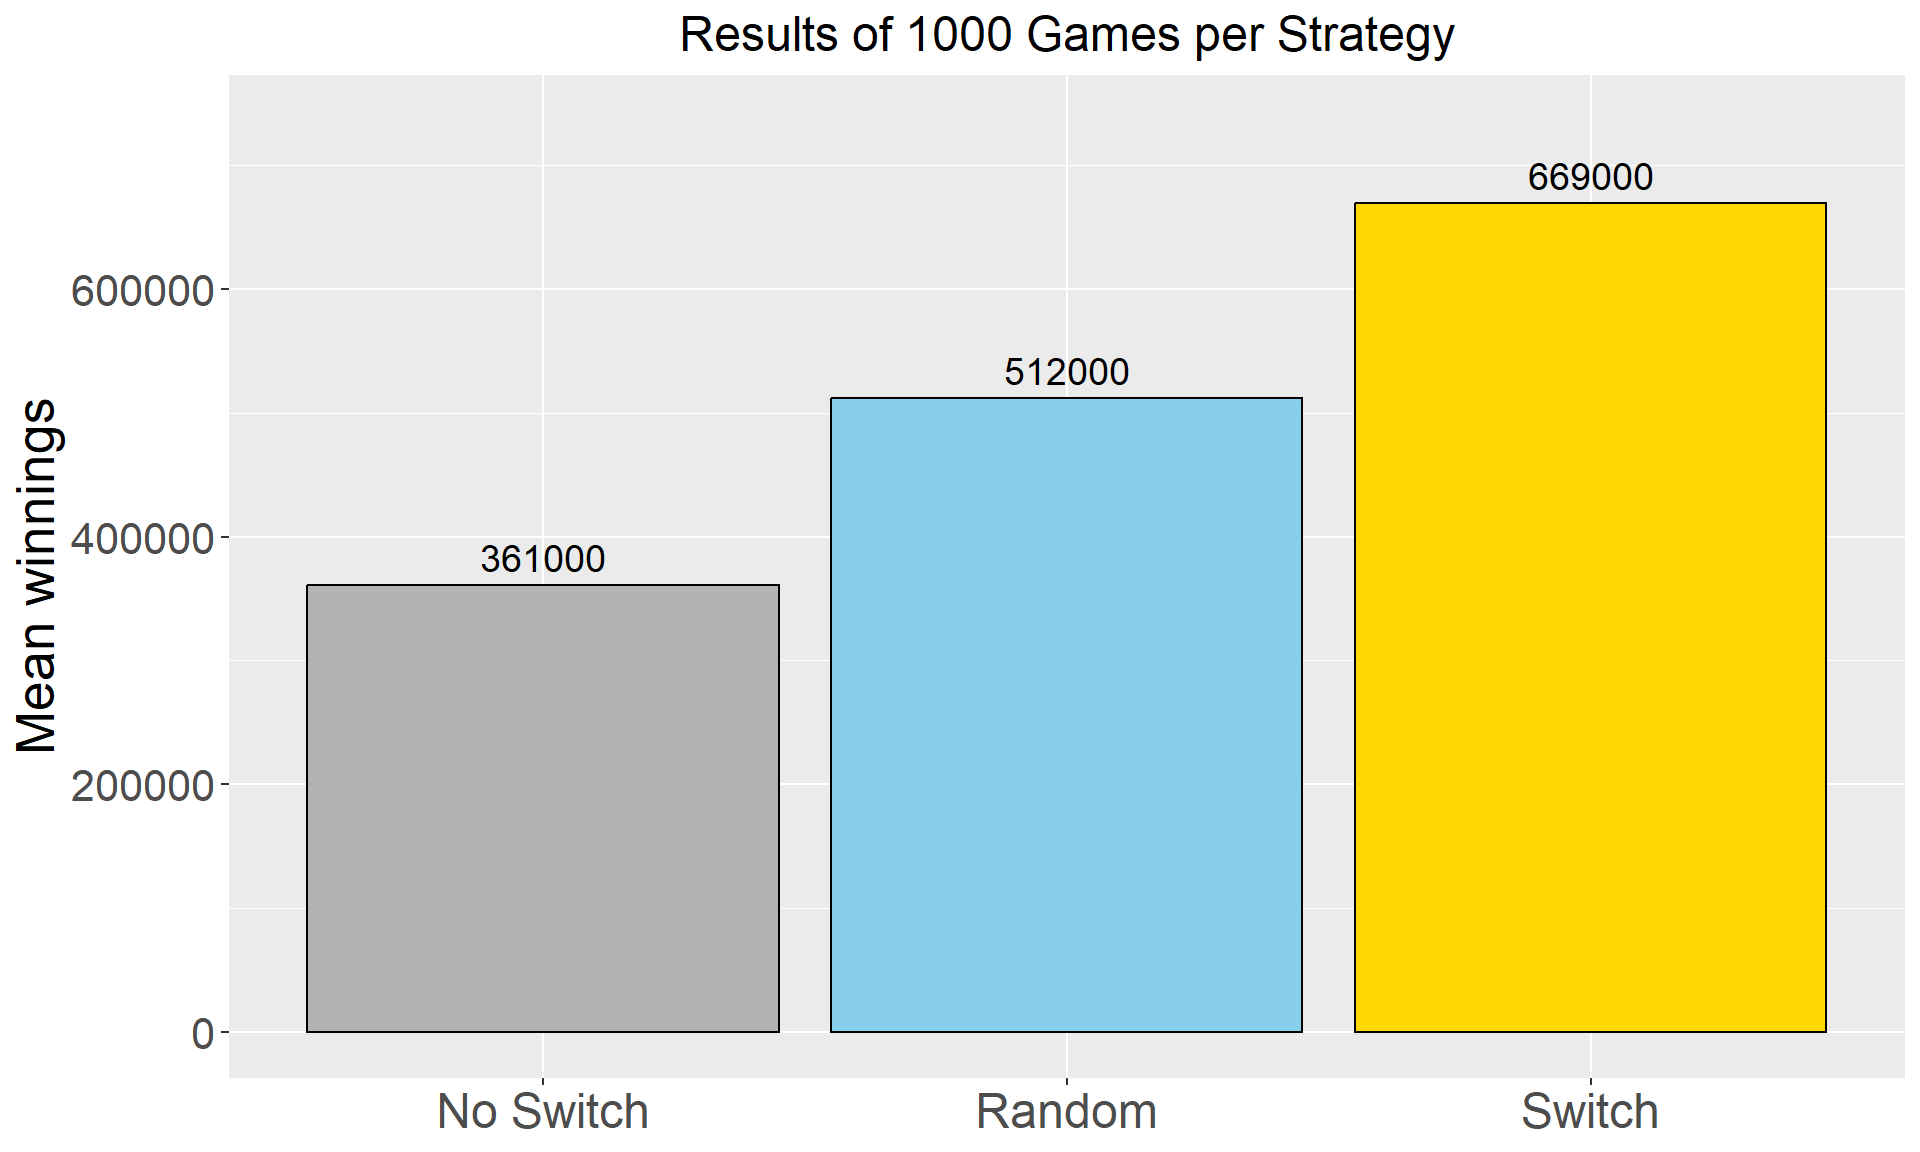
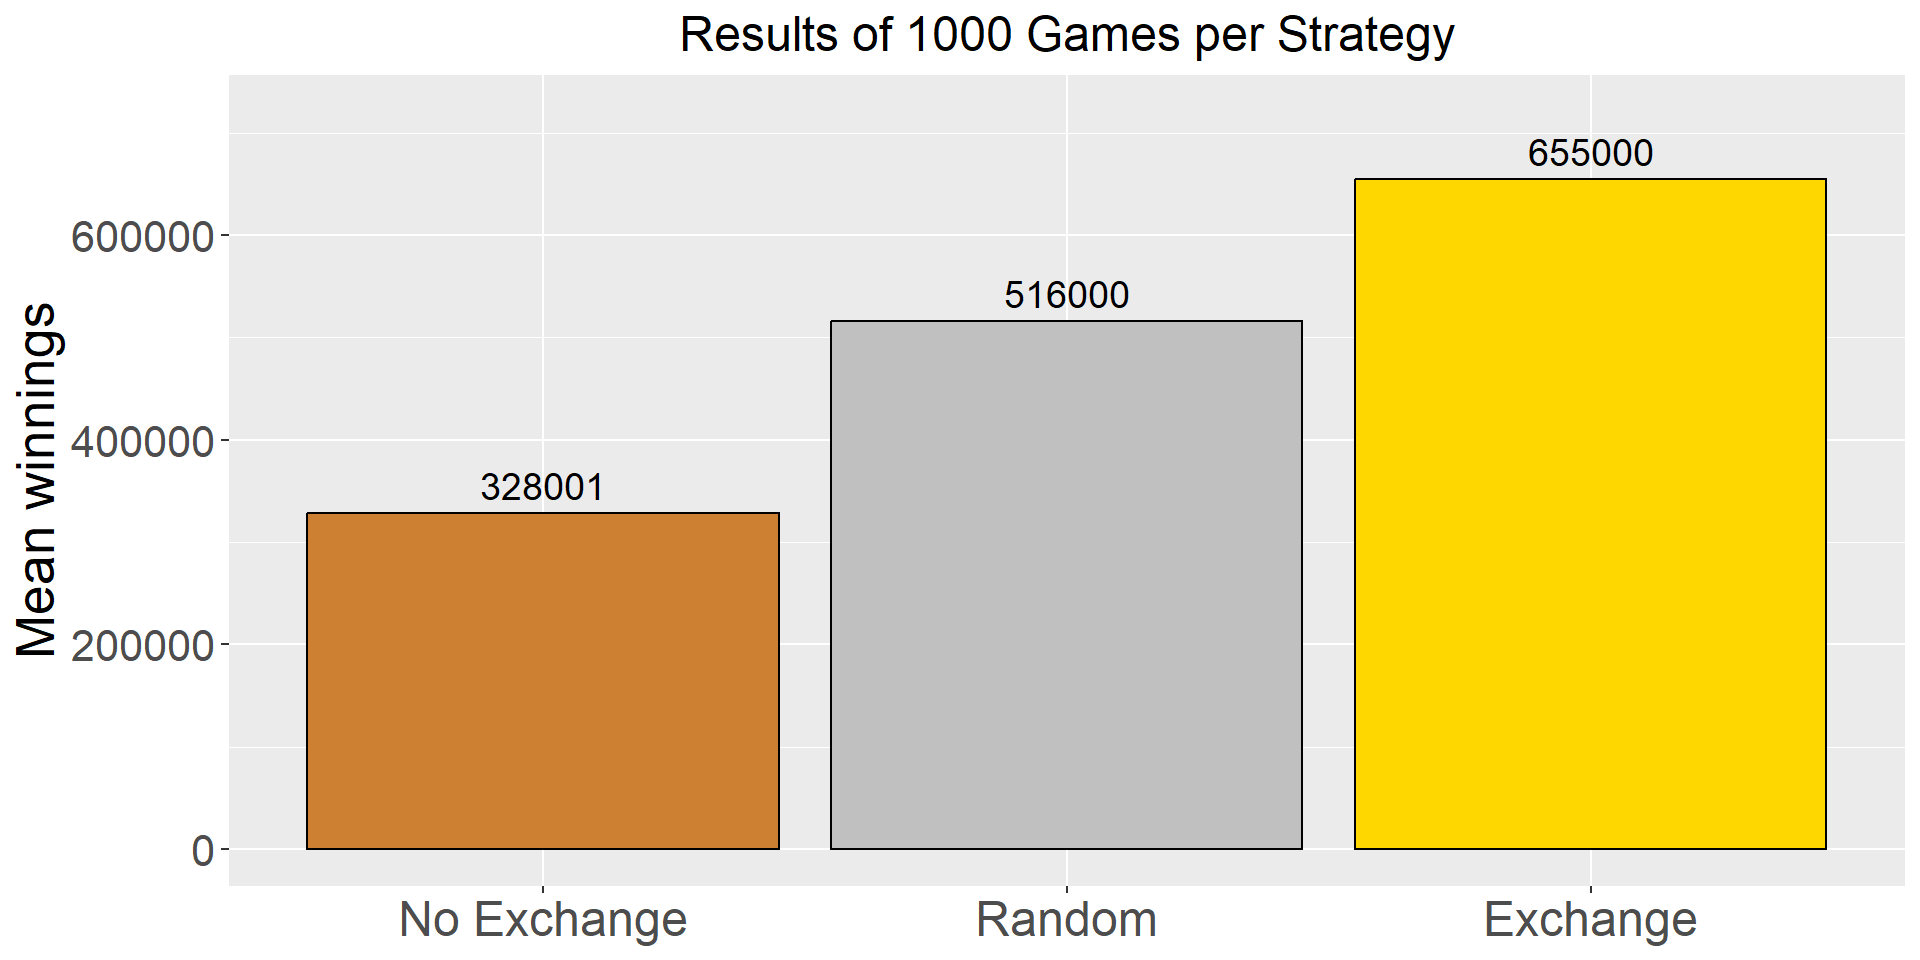
updated code

diff --git a/SIR_Presentation.html b/SIR_Presentation.html
@@ -11,7 +11,7 @@
 
   <meta name="author" content="Arsid MASHI">
   <meta name="author" content="Sunil NAHATA">
-  <meta name="dcterms.date" content="2025-11-29">
+  <meta name="dcterms.date" content="2025-12-03">
   <title>Simulating the Monty Hall Problem</title>
   <meta name="apple-mobile-web-app-capable" content="yes">
   <meta name="apple-mobile-web-app-status-bar-style" content="black-translucent">
@@ -211,7 +211,7 @@ Sunil NAHATA
 </div>
 </div>
 
-  <p class="date">2025-11-29</p>
+  <p class="date">2025-12-03</p>
 </section>
 <section id="overview" class="title-slide slide level1">
 <h1>Overview</h1>
@@ -276,70 +276,107 @@ Sunil NAHATA
 <section id="no-switch" class="title-slide slide level1">
 <h1>No Switch</h1>
 <div class="cell">
-<div class="code-copy-outer-scaffold"><div class="sourceCode cell-code" id="cb1"><pre class="sourceCode numberSource r number-lines code-with-copy"><code class="sourceCode r"><span id="cb1-1"><a href=""></a><span class="co"># One game: No Switch</span></span>
-<span id="cb1-2"><a href=""></a>game_no_switch <span class="ot">&lt;-</span> <span class="cf">function</span>() {</span>
-<span id="cb1-3"><a href=""></a>  boxes <span class="ot">&lt;-</span> <span class="fu">c</span>(<span class="fl">1e6</span>, <span class="fl">0.10</span>, <span class="fl">0.10</span>)</span>
-<span id="cb1-4"><a href=""></a>  pick <span class="ot">&lt;-</span> <span class="fu">sample</span>(<span class="dv">1</span><span class="sc">:</span><span class="dv">3</span>, <span class="dv">1</span>)</span>
-<span id="cb1-5"><a href=""></a>  <span class="fu">return</span>(boxes[pick])</span>
-<span id="cb1-6"><a href=""></a>}</span></code></pre></div><button title="Copy to Clipboard" class="code-copy-button"><i class="bi"></i></button></div>
+<div class="code-copy-outer-scaffold"><div class="sourceCode cell-code" id="cb1"><pre class="sourceCode numberSource r number-lines code-with-copy"><code class="sourceCode r"><span id="cb1-1"><a href=""></a><span class="co"># Player chooses a box and sticks with his choice</span></span>
+<span id="cb1-2"><a href=""></a></span>
+<span id="cb1-3"><a href=""></a>game_no_box_change <span class="ot">=</span> <span class="cf">function</span>(){  </span>
+<span id="cb1-4"><a href=""></a>  box <span class="ot">=</span> <span class="fu">c</span>(<span class="dv">1</span>, <span class="dv">1</span>, <span class="dv">1000000</span>)  </span>
+<span id="cb1-5"><a href=""></a>  random_choice <span class="ot">=</span> <span class="fu">sample</span>(<span class="dv">1</span><span class="sc">:</span><span class="dv">3</span>, <span class="at">size=</span> <span class="dv">1</span>) </span>
+<span id="cb1-6"><a href=""></a>  chosen_box <span class="ot">=</span> box[random_choice] </span>
+<span id="cb1-7"><a href=""></a>  remaining_boxes <span class="ot">=</span> box[<span class="sc">-</span>random_choice] </span>
+<span id="cb1-8"><a href=""></a>  <span class="fu">return</span>(chosen_box)  </span>
+<span id="cb1-9"><a href=""></a>}</span></code></pre></div><button title="Copy to Clipboard" class="code-copy-button"><i class="bi"></i></button></div>
 </div>
 </section>
 
 <section id="always-switch" class="title-slide slide level1">
 <h1>Always switch</h1>
 <div class="cell">
-<div class="code-copy-outer-scaffold"><div class="sourceCode cell-code" id="cb2"><pre class="sourceCode numberSource r number-lines code-with-copy"><code class="sourceCode r"><span id="cb2-1"><a href=""></a><span class="co"># One game: Always switch</span></span>
-<span id="cb2-2"><a href=""></a>game_switch <span class="ot">&lt;-</span> <span class="cf">function</span>() {</span>
-<span id="cb2-3"><a href=""></a>  boxes <span class="ot">&lt;-</span> <span class="fu">c</span>(<span class="fl">1e6</span>, <span class="fl">0.10</span>, <span class="fl">0.10</span>)</span>
-<span id="cb2-4"><a href=""></a>  pick <span class="ot">&lt;-</span> <span class="fu">sample</span>(<span class="dv">1</span><span class="sc">:</span><span class="dv">3</span>, <span class="dv">1</span>)</span>
-<span id="cb2-5"><a href=""></a>  remaining <span class="ot">&lt;-</span> <span class="fu">setdiff</span>(<span class="dv">1</span><span class="sc">:</span><span class="dv">3</span>, pick)</span>
-<span id="cb2-6"><a href=""></a>  presenter <span class="ot">&lt;-</span> remaining[boxes[remaining] <span class="sc">==</span> <span class="fl">0.10</span>][<span class="dv">1</span>]</span>
-<span id="cb2-7"><a href=""></a>  final_choice <span class="ot">&lt;-</span> <span class="fu">setdiff</span>(remaining, presenter)</span>
-<span id="cb2-8"><a href=""></a>  <span class="fu">return</span>(boxes[final_choice])</span>
-<span id="cb2-9"><a href=""></a>}</span></code></pre></div><button title="Copy to Clipboard" class="code-copy-button"><i class="bi"></i></button></div>
+<div class="code-copy-outer-scaffold"><div class="sourceCode cell-code" id="cb2"><pre class="sourceCode numberSource r number-lines code-with-copy"><code class="sourceCode r"><span id="cb2-1"><a href=""></a><span class="co"># Of the two remaining boxes, the presenter opens a box containing a dime </span></span>
+<span id="cb2-2"><a href=""></a></span>
+<span id="cb2-3"><a href=""></a>game_box_exchange <span class="ot">=</span> <span class="cf">function</span>(){</span>
+<span id="cb2-4"><a href=""></a>  box <span class="ot">=</span> <span class="fu">c</span>(<span class="dv">1</span>, <span class="dv">1</span>, <span class="dv">1000000</span>)</span>
+<span id="cb2-5"><a href=""></a>  random_choice <span class="ot">=</span> <span class="fu">sample</span>(<span class="dv">1</span><span class="sc">:</span><span class="dv">3</span>, <span class="at">size=</span> <span class="dv">1</span>)</span>
+<span id="cb2-6"><a href=""></a>  remaining_boxes <span class="ot">=</span> box[<span class="sc">-</span>random_choice]</span>
+<span id="cb2-7"><a href=""></a>  <span class="cf">if</span> (<span class="fu">length</span>(<span class="fu">which</span>(remaining_boxes <span class="sc">==</span> <span class="dv">1</span>)) <span class="sc">==</span> <span class="dv">1</span>){</span>
+<span id="cb2-8"><a href=""></a>    chosen_box <span class="ot">=</span> remaining_boxes[<span class="sc">-</span><span class="fu">which</span>(remaining_boxes <span class="sc">==</span> <span class="dv">1</span>)]</span>
+<span id="cb2-9"><a href=""></a>  }</span>
+<span id="cb2-10"><a href=""></a>  <span class="cf">else</span> {</span>
+<span id="cb2-11"><a href=""></a>    chosen_box <span class="ot">=</span> remaining_boxes[<span class="sc">-</span><span class="fu">which</span>(remaining_boxes <span class="sc">==</span> <span class="dv">1</span>)[<span class="fu">sample</span>(<span class="dv">1</span><span class="sc">:</span><span class="dv">2</span>,<span class="dv">1</span>)]]</span>
+<span id="cb2-12"><a href=""></a>  }</span>
+<span id="cb2-13"><a href=""></a>  <span class="fu">return</span>(chosen_box)</span>
+<span id="cb2-14"><a href=""></a>}</span></code></pre></div><button title="Copy to Clipboard" class="code-copy-button"><i class="bi"></i></button></div>
 </div>
 </section>
 
 <section id="random-choice" class="title-slide slide level1">
 <h1>Random choice</h1>
 <div class="cell">
-<div class="code-copy-outer-scaffold"><div class="sourceCode cell-code" id="cb3"><pre class="sourceCode numberSource r number-lines code-with-copy"><code class="sourceCode r"><span id="cb3-1"><a href=""></a><span class="co"># Random choice</span></span>
-<span id="cb3-2"><a href=""></a>game_random <span class="ot">&lt;-</span> <span class="cf">function</span>() {</span>
-<span id="cb3-3"><a href=""></a>  boxes <span class="ot">&lt;-</span> <span class="fu">c</span>(<span class="fl">1e6</span>, <span class="fl">0.10</span>, <span class="fl">0.10</span>)</span>
-<span id="cb3-4"><a href=""></a>  pick <span class="ot">&lt;-</span> <span class="fu">sample</span>(<span class="dv">1</span><span class="sc">:</span><span class="dv">3</span>, <span class="dv">1</span>)</span>
-<span id="cb3-5"><a href=""></a>  remaining <span class="ot">&lt;-</span> <span class="fu">setdiff</span>(<span class="dv">1</span><span class="sc">:</span><span class="dv">3</span>, pick)</span>
-<span id="cb3-6"><a href=""></a>  presenter <span class="ot">&lt;-</span> remaining[boxes[remaining] <span class="sc">==</span> <span class="fl">0.10</span>][<span class="dv">1</span>]</span>
-<span id="cb3-7"><a href=""></a>  final_choice <span class="ot">&lt;-</span> <span class="fu">sample</span>(<span class="fu">c</span>(pick, <span class="fu">setdiff</span>(remaining, presenter)), <span class="dv">1</span>)</span>
-<span id="cb3-8"><a href=""></a>  <span class="fu">return</span>(boxes[final_choice])</span>
-<span id="cb3-9"><a href=""></a>}</span></code></pre></div><button title="Copy to Clipboard" class="code-copy-button"><i class="bi"></i></button></div>
+<div class="code-copy-outer-scaffold"><div class="sourceCode cell-code" id="cb3"><pre class="sourceCode numberSource r number-lines code-with-copy"><code class="sourceCode r"><span id="cb3-1"><a href=""></a><span class="co"># Player chooses to keep the box chosen at the beginning or switch to the remaining box, a random choice</span></span>
+<span id="cb3-2"><a href=""></a></span>
+<span id="cb3-3"><a href=""></a>game_random_remain_pick <span class="ot">=</span> <span class="cf">function</span>(){   </span>
+<span id="cb3-4"><a href=""></a>  random_choice <span class="ot">=</span> <span class="fu">sample</span>(<span class="dv">1</span><span class="sc">:</span><span class="dv">2</span>, <span class="at">size=</span> <span class="dv">1</span>)    </span>
+<span id="cb3-5"><a href=""></a>  <span class="cf">if</span> (random_choice <span class="sc">==</span> <span class="dv">1</span>) {<span class="fu">game_box_exchange</span>()}</span>
+<span id="cb3-6"><a href=""></a>  <span class="cf">else</span> {<span class="fu">game_no_box_change</span>()}</span>
+<span id="cb3-7"><a href=""></a>}</span></code></pre></div><button title="Copy to Clipboard" class="code-copy-button"><i class="bi"></i></button></div>
 </div>
 </section>
 
-<section id="simulations-per-case" class="title-slide slide level1">
-<h1>1000 simulations per case</h1>
+<section id="simulations-per-strategy" class="title-slide slide level1">
+<h1>1000 simulations per strategy</h1>
 <div class="cell">
 <div class="code-copy-outer-scaffold"><div class="sourceCode cell-code" id="cb4"><pre class="sourceCode numberSource r number-lines code-with-copy"><code class="sourceCode r"><span id="cb4-1"><a href=""></a><span class="co"># Repeat 1000 games</span></span>
-<span id="cb4-2"><a href=""></a>N <span class="ot">&lt;-</span> <span class="dv">1000</span></span>
-<span id="cb4-3"><a href=""></a></span>
-<span id="cb4-4"><a href=""></a>mean_no_switch <span class="ot">&lt;-</span> <span class="fu">mean</span>(<span class="fu">replicate</span>(N, <span class="fu">game_no_switch</span>()))</span>
-<span id="cb4-5"><a href=""></a>mean_random    <span class="ot">&lt;-</span> <span class="fu">mean</span>(<span class="fu">replicate</span>(N, <span class="fu">game_random</span>()))</span>
-<span id="cb4-6"><a href=""></a>mean_switch    <span class="ot">&lt;-</span> <span class="fu">mean</span>(<span class="fu">replicate</span>(N, <span class="fu">game_switch</span>()))</span>
-<span id="cb4-7"><a href=""></a></span>
-<span id="cb4-8"><a href=""></a>means <span class="ot">&lt;-</span> <span class="fu">c</span>(<span class="st">"No Switch"</span> <span class="ot">=</span> mean_no_switch,</span>
-<span id="cb4-9"><a href=""></a>              <span class="st">"Random"</span> <span class="ot">=</span> mean_random,</span>
-<span id="cb4-10"><a href=""></a>              <span class="st">"Switch"</span> <span class="ot">=</span> mean_switch)</span>
-<span id="cb4-11"><a href=""></a></span>
-<span id="cb4-12"><a href=""></a>means</span></code></pre></div><button title="Copy to Clipboard" class="code-copy-button"><i class="bi"></i></button></div>
+<span id="cb4-2"><a href=""></a></span>
+<span id="cb4-3"><a href=""></a>N <span class="ot">&lt;-</span> <span class="dv">1000</span></span>
+<span id="cb4-4"><a href=""></a></span>
+<span id="cb4-5"><a href=""></a>mean_game_no_box_change <span class="ot">&lt;-</span> <span class="fu">mean</span>(<span class="fu">replicate</span>(N, <span class="fu">game_no_box_change</span>()))</span>
+<span id="cb4-6"><a href=""></a>mean_game_random_remain_pick <span class="ot">&lt;-</span> <span class="fu">mean</span>(<span class="fu">replicate</span>(N, <span class="fu">game_random_remain_pick</span>()))</span>
+<span id="cb4-7"><a href=""></a>mean_game_box_exchange <span class="ot">&lt;-</span> <span class="fu">mean</span>(<span class="fu">replicate</span>(N, <span class="fu">game_box_exchange</span>()))</span>
+<span id="cb4-8"><a href=""></a></span>
+<span id="cb4-9"><a href=""></a>means <span class="ot">&lt;-</span> <span class="fu">c</span>(<span class="st">"No Exchange"</span> <span class="ot">=</span> mean_game_no_box_change,</span>
+<span id="cb4-10"><a href=""></a>              <span class="st">"Random"</span> <span class="ot">=</span> mean_game_random_remain_pick,</span>
+<span id="cb4-11"><a href=""></a>              <span class="st">"Exchange"</span> <span class="ot">=</span> mean_game_box_exchange)</span>
+<span id="cb4-12"><a href=""></a></span>
+<span id="cb4-13"><a href=""></a>means</span></code></pre></div><button title="Copy to Clipboard" class="code-copy-button"><i class="bi"></i></button></div>
 <div class="cell-output cell-output-stdout">
-<pre><code>No Switch    Random    Switch 
- 361000.1  512000.0  669000.0 </code></pre>
+<pre><code>No Exchange      Random    Exchange 
+   328000.7    516000.5    655000.3 </code></pre>
 </div>
 </div>
 </section>
 
 <section id="results-mean-winnings" class="title-slide slide level1 fragments">
 <h1>Results — Mean Winnings</h1>
+<div class="cell" data-layout-align="center">
+<div class="code-copy-outer-scaffold"><div class="sourceCode cell-code" id="cb6"><pre class="sourceCode numberSource r number-lines code-with-copy"><code class="sourceCode r"><span id="cb6-1"><a href=""></a><span class="fu">library</span>(ggplot2)</span>
+<span id="cb6-2"><a href=""></a>df_means <span class="ot">&lt;-</span> <span class="fu">data.frame</span>(</span>
+<span id="cb6-3"><a href=""></a>  <span class="at">Strategy =</span> <span class="fu">factor</span>(<span class="fu">names</span>(means), <span class="at">levels =</span> <span class="fu">names</span>(means)),</span>
+<span id="cb6-4"><a href=""></a>  <span class="at">Mean     =</span> <span class="fu">as.numeric</span>(means)</span>
+<span id="cb6-5"><a href=""></a>)</span>
+<span id="cb6-6"><a href=""></a></span>
+<span id="cb6-7"><a href=""></a><span class="fu">ggplot</span>(df_means, <span class="fu">aes</span>(<span class="at">x =</span> Strategy, <span class="at">y =</span> Mean, <span class="at">fill =</span> Strategy)) <span class="sc">+</span></span>
+<span id="cb6-8"><a href=""></a>  <span class="fu">geom_col</span>(<span class="at">color =</span> <span class="st">"black"</span>) <span class="sc">+</span></span>
+<span id="cb6-9"><a href=""></a>  <span class="fu">geom_text</span>(<span class="fu">aes</span>(<span class="at">label =</span> <span class="fu">round</span>(Mean)), <span class="at">vjust =</span> <span class="sc">-</span><span class="fl">0.5</span>, <span class="at">size =</span> <span class="dv">5</span>) <span class="sc">+</span></span>
+<span id="cb6-10"><a href=""></a>  <span class="fu">scale_fill_manual</span>(<span class="at">values =</span> <span class="fu">c</span>(<span class="st">"No Exchange"</span> <span class="ot">=</span> <span class="st">"#CD7F32"</span>,</span>
+<span id="cb6-11"><a href=""></a>                               <span class="st">"Random"</span>    <span class="ot">=</span> <span class="st">"#C0C0C0"</span>,</span>
+<span id="cb6-12"><a href=""></a>                               <span class="st">"Exchange"</span>    <span class="ot">=</span> <span class="st">"#FFD700"</span>)) <span class="sc">+</span></span>
+<span id="cb6-13"><a href=""></a>  <span class="fu">scale_y_continuous</span>(</span>
+<span id="cb6-14"><a href=""></a>    <span class="at">labels =</span> <span class="cf">function</span>(x) <span class="fu">format</span>(x, <span class="at">scientific =</span> <span class="cn">FALSE</span>, <span class="at">big.mark =</span> <span class="st">""</span>),</span>
+<span id="cb6-15"><a href=""></a>    <span class="at">limits =</span> <span class="fu">c</span>(<span class="dv">0</span>, <span class="fu">max</span>(df_means<span class="sc">$</span>Mean) <span class="sc">*</span> <span class="fl">1.1</span>)</span>
+<span id="cb6-16"><a href=""></a>  ) <span class="sc">+</span></span>
+<span id="cb6-17"><a href=""></a>  <span class="fu">labs</span>(</span>
+<span id="cb6-18"><a href=""></a>    <span class="at">title =</span> <span class="st">"Results of 1000 Games per Strategy"</span>,</span>
+<span id="cb6-19"><a href=""></a>    <span class="at">y =</span> <span class="st">"Mean winnings"</span>,</span>
+<span id="cb6-20"><a href=""></a>    <span class="at">x =</span> <span class="cn">NULL</span></span>
+<span id="cb6-21"><a href=""></a>  ) <span class="sc">+</span></span>
+<span id="cb6-22"><a href=""></a>  <span class="fu">theme</span>(</span>
+<span id="cb6-23"><a href=""></a>    <span class="at">legend.position =</span> <span class="st">"none"</span>,</span>
+<span id="cb6-24"><a href=""></a>    <span class="at">plot.title =</span> <span class="fu">element_text</span>(<span class="at">size =</span> <span class="dv">18</span>, <span class="at">hjust =</span> <span class="fl">0.5</span>),</span>
+<span id="cb6-25"><a href=""></a>    <span class="at">axis.title.y =</span> <span class="fu">element_text</span>(<span class="at">size =</span> <span class="dv">20</span>),</span>
+<span id="cb6-26"><a href=""></a>    <span class="at">axis.text.x  =</span> <span class="fu">element_text</span>(<span class="at">size =</span> <span class="dv">18</span>),</span>
+<span id="cb6-27"><a href=""></a>    <span class="at">axis.text.y  =</span> <span class="fu">element_text</span>(<span class="at">size =</span> <span class="dv">16</span>)</span>
+<span id="cb6-28"><a href=""></a>  )</span></code></pre></div><button title="Copy to Clipboard" class="code-copy-button"><i class="bi"></i></button></div>
 
+</div>
 <img data-src="SIR_Presentation_files/figure-revealjs/unnamed-chunk-5-1.png" class="quarto-figure quarto-figure-center r-stretch" width="960"></section>
 
 <section id="interpretation" class="title-slide slide level1">
@@ -348,12 +385,12 @@ Sunil NAHATA
 <li><p><strong>No switch</strong> ≈ 33%</p></li>
 <li><p><strong>Random</strong> ≈ 50%</p></li>
 <li><p><strong>Switch</strong> ≈ 66% ← Best strategy</p></li>
-<li><p>Switching increases the win probability by almost two times than staying.</p></li>
+<li><p><strong>Switching boxes</strong> increases the win probability by two times than <strong>sticking</strong> with the first choice.</p></li>
 </ul>
 </section>
 
 <section id="why-switching-wins" class="title-slide slide level1">
-<h1>Why switching wins</h1>
+<h1>Why switching wins?</h1>
 <ul>
 <li><p>Initial pick has probability 1/3 of being the million</p></li>
 <li><p>The two other boxes together have 2/3</p></li>
